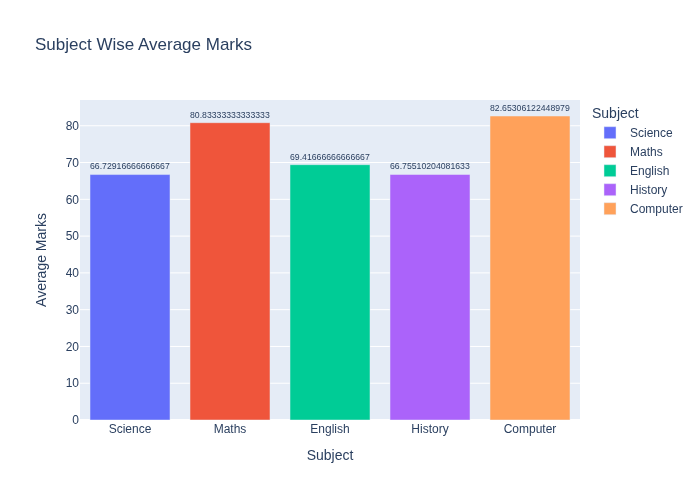
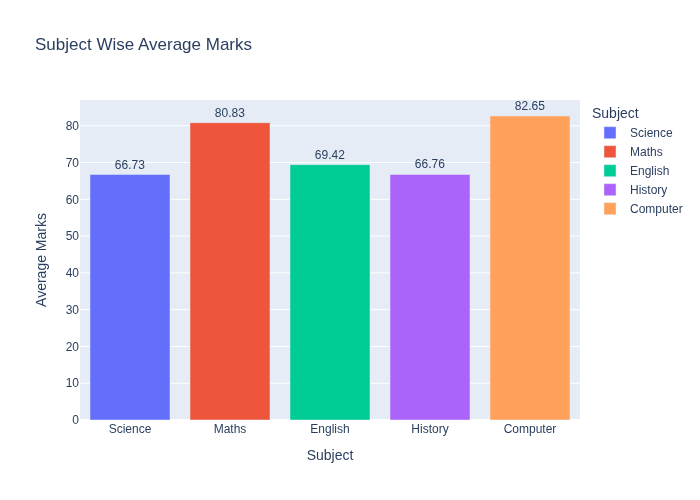
graph update

diff --git a/visualisation.py b/visualisation.py
@@ -37,7 +37,7 @@ def graph():
         subject_avg = []
 
         for subject in marks_cols:
-            avg = df[subject].mean()
+            avg = df[subject].mean().round(2)
             subject_avg.append(avg)
 
         avg_df = pd.DataFrame({
@@ -90,7 +90,8 @@ def graph():
 
         fig3.update_traces(
             textposition="outside",
-            textangle=0
+            textangle=0,
+
         )
 
         fig3.write_image(os.path.join(GRAPH_DIR, "pass_fail.png"))
